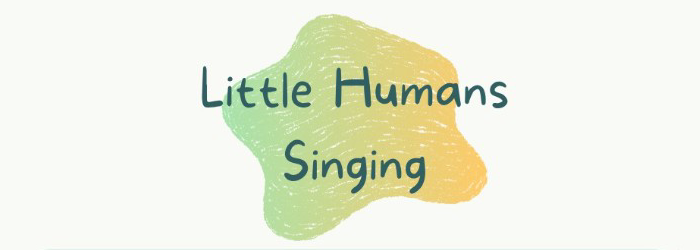
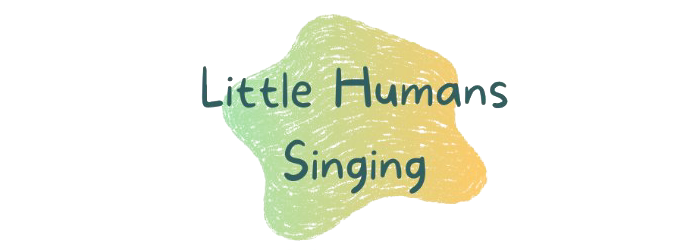
Make Little Humans title background transparent.
Remove the opaque cream box so the poster title sits on the kids page gradient.

diff --git a/components/kids-site.tsx b/components/kids-site.tsx
@@ -92,7 +92,7 @@ export function KidsSite({ t }: KidsSiteProps) {
 
           <h2 className="sr-only">{t("kidsEventTitle")}</h2>
           <img
-            src="/images/little-humans-title.png"
+            src="/images/little-humans-title.png?v=2"
             alt=""
             className="w-full max-w-[20rem] sm:max-w-md select-none"
             draggable={false}
